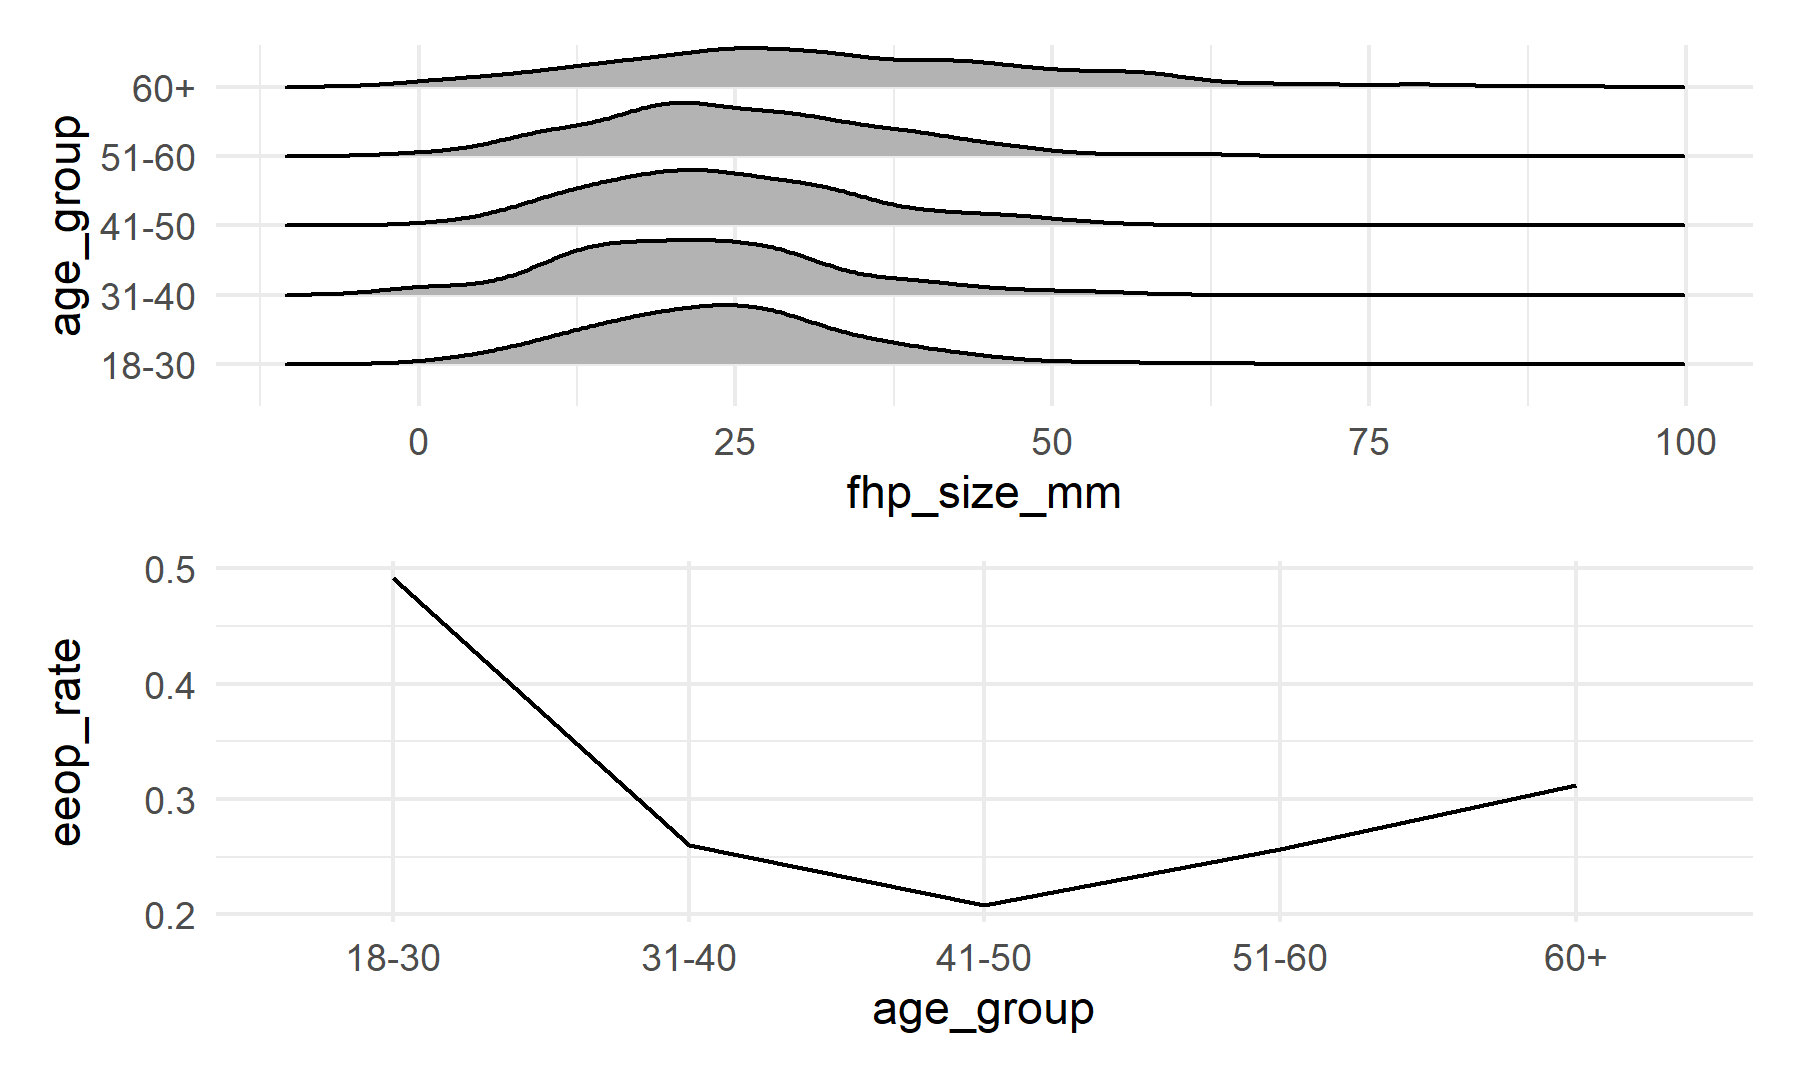
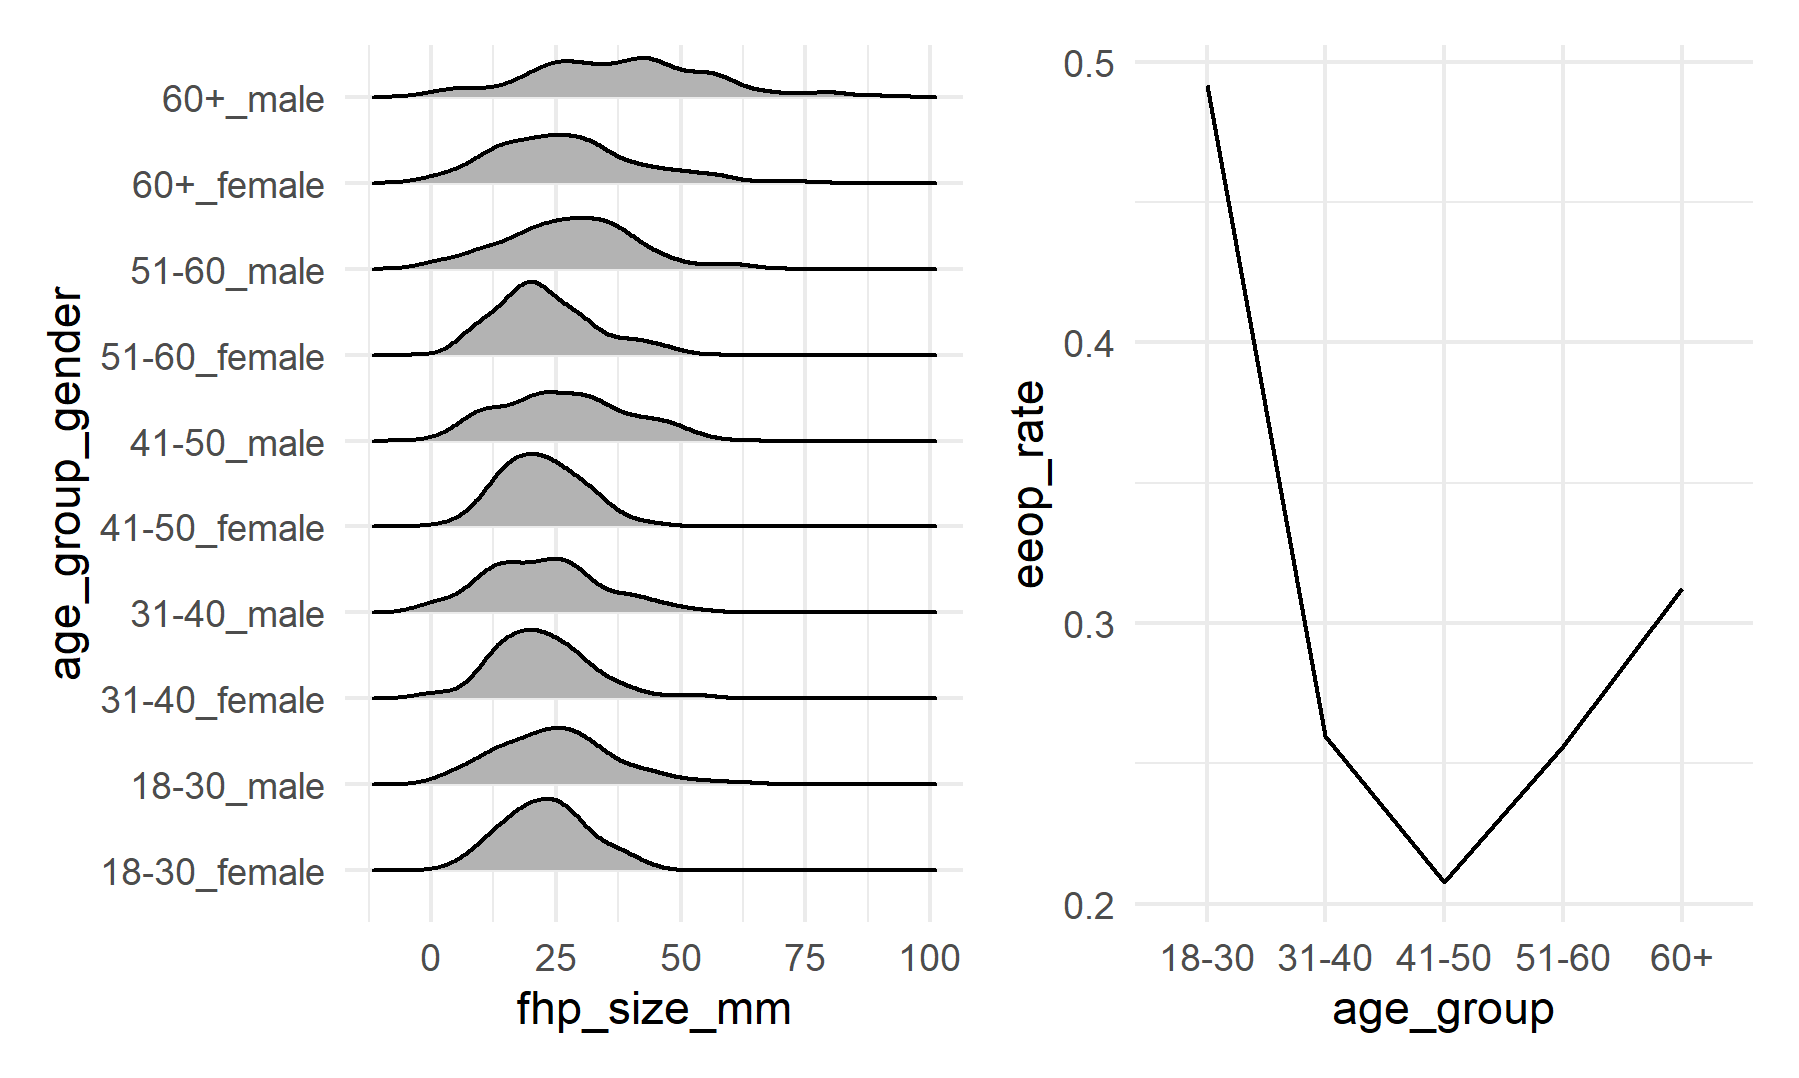
check p2

diff --git a/p8105_mtp_bg2715.md b/p8105_mtp_bg2715.md
@@ -108,7 +108,9 @@ which are meaningless.
 ## Problem 2
 
 ``` r
-fig3 = ggplot(eop_df, aes(x = fhp_size_mm, y = age_group)) + 
+fig3 = eop_df %>% 
+  mutate(age_group_gender = paste(age_group , sex, sep = '_')) %>%
+  ggplot( aes(x = fhp_size_mm, y = age_group_gender)) + 
   geom_density_ridges(scale = .85) 
 totalcount = eop_df %>% 
   count(age_group, name = "total_count")
@@ -120,13 +122,13 @@ fig4 = eop_df %>%
   ggplot(aes(x = age_group, y = eeop_rate, group = 1)) +
   geom_line()
 
-two_panel = fig3/fig4
+two_panel = fig3 + fig4
 ggsave("two-panel.png")
 ```
 
     ## Saving 6 x 3.59 in image
 
-    ## Picking joint bandwidth of 3.49
+    ## Picking joint bandwidth of 3.86
 
     ## Warning: Removed 6 rows containing non-finite values (stat_density_ridges).
 
